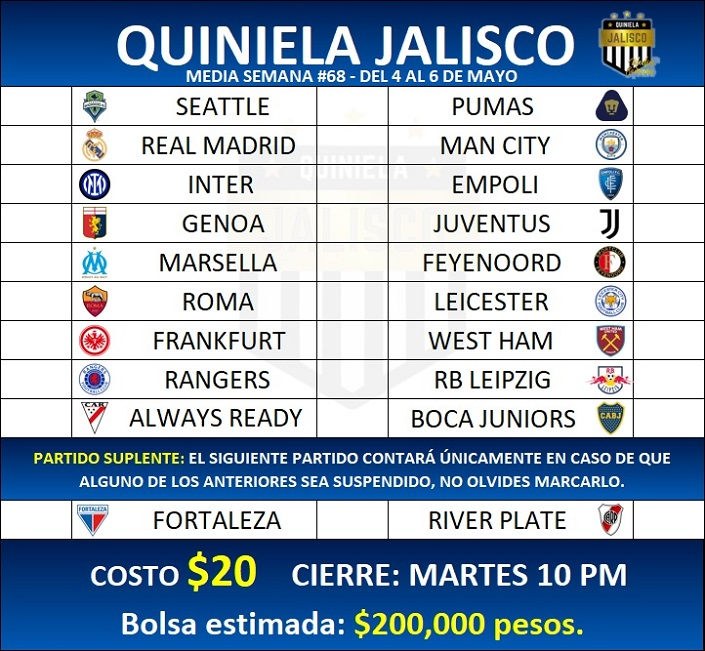
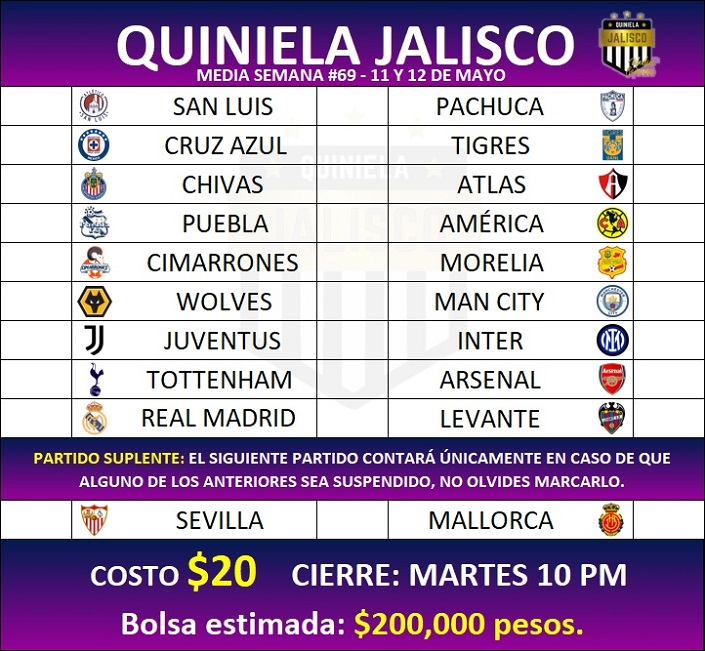
Media Semana #69

diff --git a/MediaSemana/stylesmSusp.css b/MediaSemana/stylesmSusp.css
@@ -92,8 +92,8 @@ h1{
     margin-top: 8%;
     border: solid 1px black;
     border-radius: 0 0 14px 14px;
-    background: -webkit-linear-gradient(0turn, rgb(8,26,81)  ,rgb(1,60,133) 80%);
-    background: linear-gradient(0turn, rgb(8,26,81)  ,rgb(1,60,133) 80%);
+    background: -webkit-linear-gradient(0turn, rgb(8,26,81)  ,rgb(93,10,124) 80%);
+    background: linear-gradient(0turn, rgb(8,26,81)  ,rgb(93,10,124) 80%);
     font-size: x-large;
     text-shadow: 1px 1px 5px black;
 }
